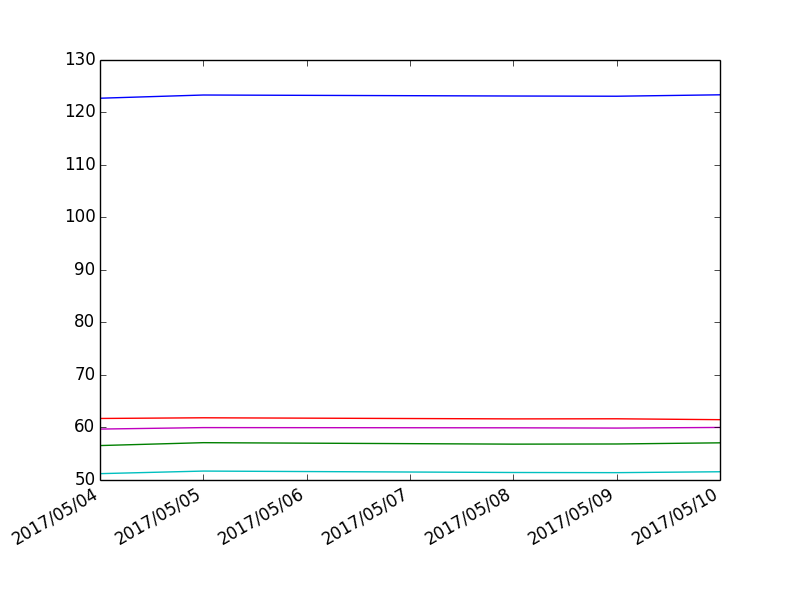
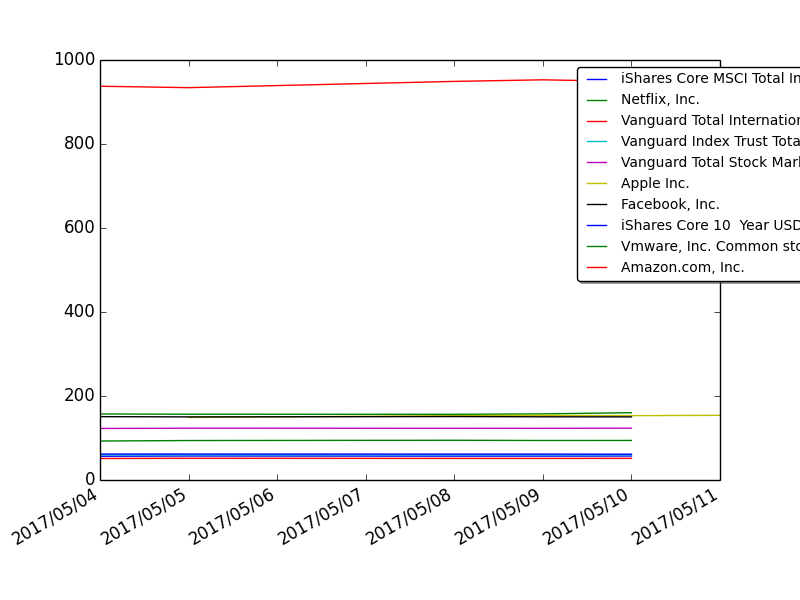
legends and properties for matplotlib

diff --git a/stock_bot.py b/stock_bot.py
@@ -58,10 +58,10 @@ def cache_stocks(stock_type):
 	return True
 
 def generate_five_day():
-	for each in global_stock_index.values():
+	for symbol, each in global_stock_index.items():
 		success = False
 		while not success:
-			success = lookup.draw_stock(each)
+			success = lookup.draw_stock(each, portfolio[symbol]['index'])
 			#repeat for http errors
 
 	lookup.draw_portfolio(portfolio)
@@ -72,6 +72,7 @@ def get_portfolio(amount, stock_type):
 	sum_peg = 0
 	total_balance = 0
 	stock_dictionary = {}
+	index = 0
 
 	for each_stock in stock_type:
 		internal_dictionary = {}
@@ -88,6 +89,8 @@ def get_portfolio(amount, stock_type):
 			individual_peg = 1
 		internal_dictionary['peg'] = abs(individual_peg)
 		internal_dictionary['name'] = stock.get_name()
+		internal_dictionary['index'] = index
+		index = index + 1
 		#calculate sum here for later on
 		sum_peg += internal_dictionary['peg']
 		stock_dictionary[each_stock] = internal_dictionary
@@ -139,6 +142,20 @@ def get_portfolio(amount, stock_type):
 	return total_balance
 
 
+def run_diagnostics():
+	sum_stocks = 0
+	sum_portfolio_counts = 0 
+	for each in portfolio:
+		print portfolio[each], '-- amount ->', portfolio[each]['amount']
+		sum_stocks += portfolio[each]['amount']
+		print portfolio[each], 'count ', portfolio[each]['count'], 'price', portfolio[each]['price']
+		print 'for a total of ', portfolio[each]['count'] * portfolio[each]['price']
+		sum_portfolio_counts += portfolio[each]['count'] * portfolio[each]['price']
+		print "***" * 3
+	print "Total spent: ", sum_portfolio_counts
+	print "total allocated:", sum_stocks
+
+
 def execute(amount, strategy, ex):
 	global portfolio, dictionary_strategies, older_portfolio
 	global global_stock_index, older_global_stock_index
@@ -149,15 +166,10 @@ def execute(amount, strategy, ex):
 	while ret != True:
 		cache_stocks(stock_type)
 
-	# print 'successfully looked up stocks'
-	# print global_stock_index
-
 	while balance > 0:
 		balance = get_portfolio(balance, stock_type)
-		# print "new portfolio: "
-		# print portfolio
-		# print "------" * 40
-		# print "new balance =", balance
+		#run_diagnostics()
+
 
 	#plot five day historical data for new stocks
 	if ex == 'double_1':
@@ -176,8 +188,6 @@ def execute(amount, strategy, ex):
 	generate_five_day()
 	
 	return portfolio
+
+
 	
-
-
-
-#test_command_line('growth')

diff --git a/lookup.py b/lookup.py
@@ -3,6 +3,7 @@ import time
 from datetime import datetime, timedelta
 import matplotlib.pyplot as plt
 import matplotlib.dates as mdates
+from matplotlib.font_manager import FontProperties
 
 dict_stock_to_five_day_prices = {}
 portfolio_dates = []
@@ -13,7 +14,7 @@ def clear_everything():
 	portfolio_history_list = []
 	portfolio_dates = []
 
-def draw_stock(stock):
+def draw_stock(stock, index):
 	global dict_stock_to_five_day_prices, portfolio_dates
 	stock_dictionary = {}
 	#Plot five day data
@@ -41,33 +42,36 @@ def draw_stock(stock):
 
 	x = [datetime.strptime(d,'%Y-%m-%d').date() for d in list_dates]
 	y = list_prices
+	ax = plt.subplot(111)
 	plt.gca().xaxis.set_major_formatter(mdates.DateFormatter('%Y/%m/%d'))
 	plt.gca().xaxis.set_major_locator(mdates.DayLocator())
-	plt.plot(x,y, label=stock.get_name())
+	p, = plt.plot(x,y, label=stock.get_name())
 	plt.gcf().autofmt_xdate()
-
+	fontP = FontProperties()
+	fontP.set_size('small')
+	ax.legend(loc='upper center', bbox_to_anchor=(1,1), ncol=1, fancybox=True, shadow=True, prop=fontP)
 	plt.savefig('static/stocks.png')
 	return True
 
 def draw_portfolio(portfolio):
 	global dict_stock_to_five_day_prices, portfolio_dates
 
-	print dict_stock_to_five_day_prices
-	print "*" * 80
+	# print dict_stock_to_five_day_prices
+	# print "*" * 80
 
 	for each_stock, five_day_prices in dict_stock_to_five_day_prices.items():
 		count = portfolio[each_stock]['count']
 		count_five_day_prices = [count * float(x) for x in five_day_prices] 
 		dict_stock_to_five_day_prices[each_stock] = count_five_day_prices
 
-	print dict_stock_to_five_day_prices
+	# print dict_stock_to_five_day_prices
 
 	list_prices = [0,0,0,0,0]
 	for each in dict_stock_to_five_day_prices.values():
 		for index in range(0, 5):
 			list_prices[index] += int(each[index])
 		
-	print list_prices
+	# print list_prices
 
 	x = [datetime.strptime(d,'%Y-%m-%d').date() for d in portfolio_dates]
 	y = list_prices
@@ -76,6 +80,8 @@ def draw_portfolio(portfolio):
 	plt.gca().xaxis.set_major_locator(mdates.DayLocator())
 	plt.plot(x,y, label='portfolio')
 	plt.gcf().autofmt_xdate()
+	ax = plt.subplot(111)
+	ax.legend(loc='upper center', bbox_to_anchor=(1,1), ncol=1, fancybox=True, shadow=True)
 
 	plt.savefig('static/portfolio.png')
 	plt.clf() 

diff --git a/todo.py b/todo.py
@@ -38,7 +38,7 @@ x1. for invalid strategy,
 x1. invalid amount
 x2. httperror in lookup.py while doing history
 x3. empty input from html
-4. sometimes portfolio exceeds total amount - for all except growth stocks
+x4. sometimes portfolio exceeds total amount - for all except growth stocks
 5. FIX all in the bug list
 
 
